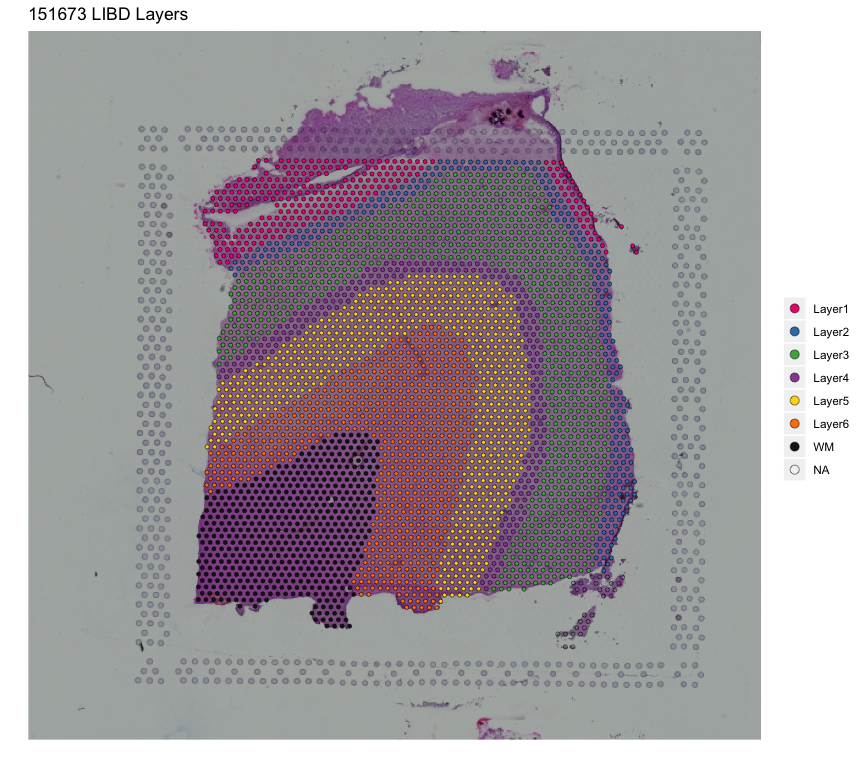
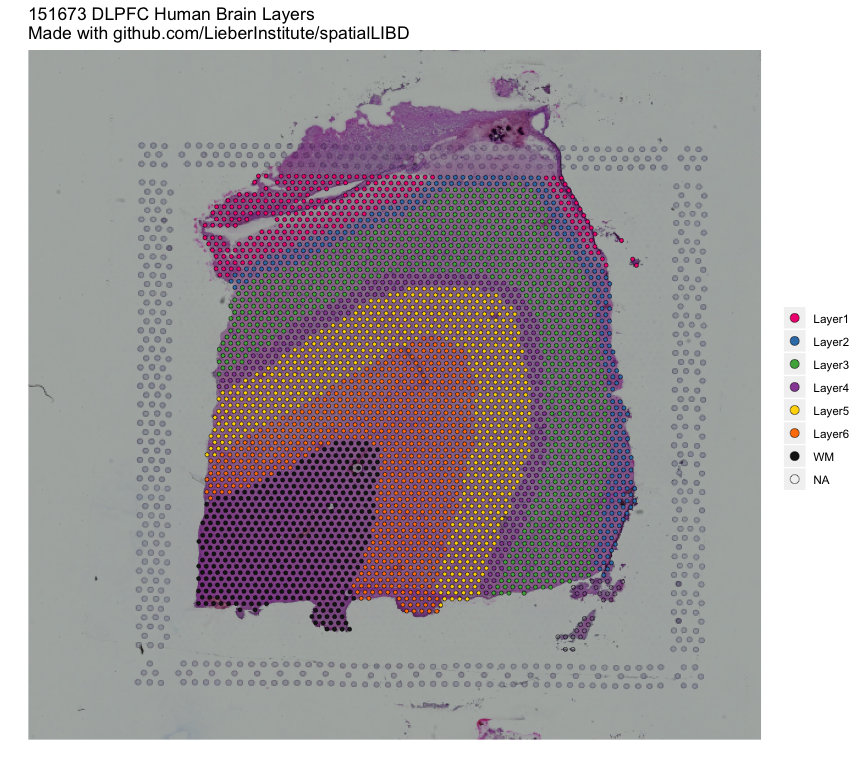
Fix all the stuff that changed with the new main sce file

diff --git a/README.md b/README.md
@@ -88,7 +88,7 @@ sce_image_clus(
     clustervar = 'layer_guess_reordered',
     sampleid = '151673',
     colors = libd_layer_colors,
-    ... = ' LIBD Layers'
+    ... = ' DLPFC Human Brain Layers\nMade with github.com/LieberInstitute/spatialLIBD'
 )
 ```
 
